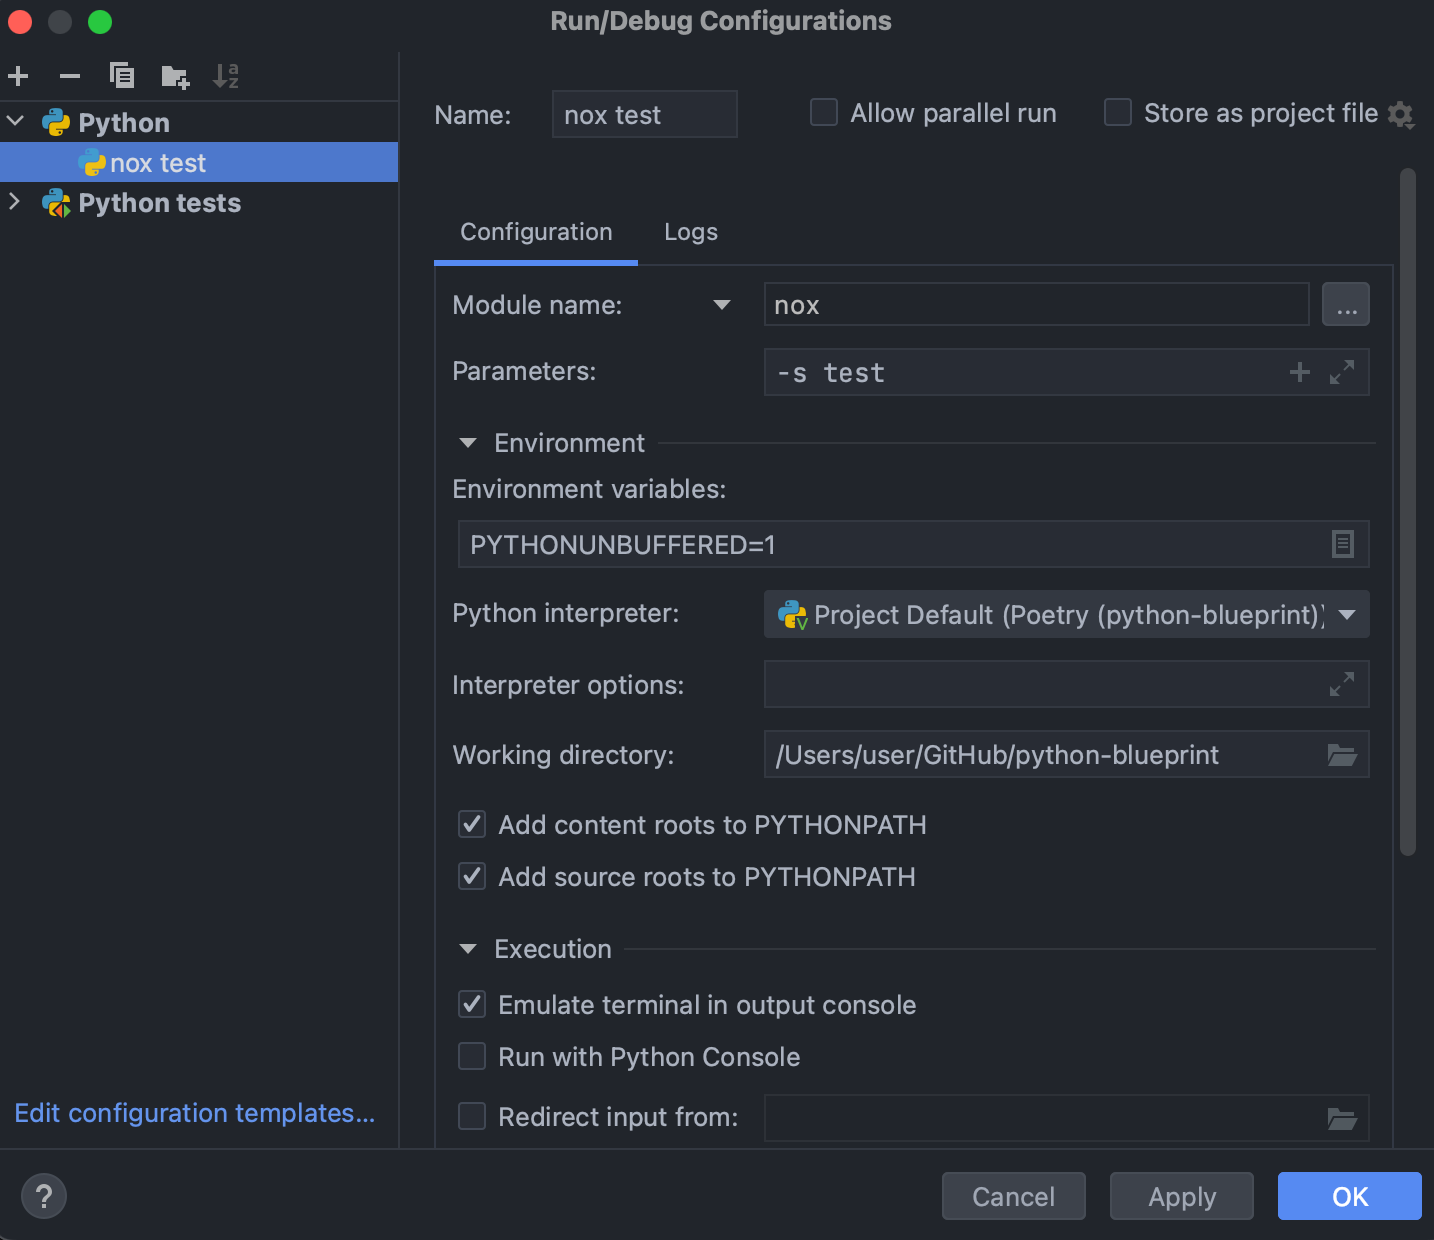
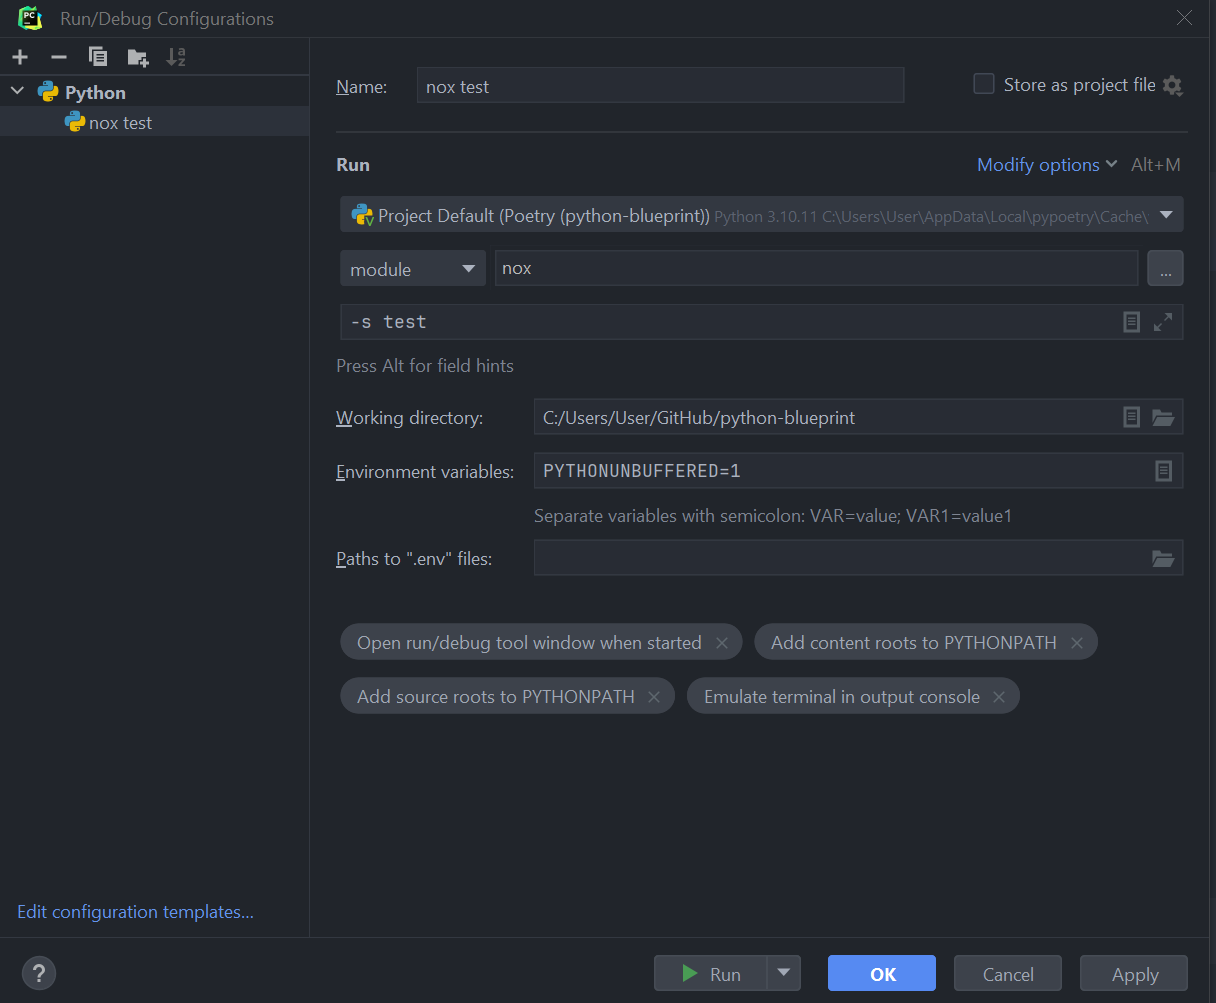
Update Nox instructions (#207)

diff --git a/README.md b/README.md
@@ -547,6 +547,7 @@ recommended way to launch Nox from PyCharm is to create a **Python**
 - Beside **Script Path**, press `▼` and select **Module name**: `nox`
 - **Parameters**, enter a Nox session: `-s test`
 - **Working Directory**: Enter the path to the current project
-- Check **Emulate terminal in output console** to enable colors to be rendered properly
+- Select **Modify Options** | Check **Emulate terminal in output console** to enable colors to be
+  rendered properly
 
 ![](docs/static/images/nox_run_configuration.png)
